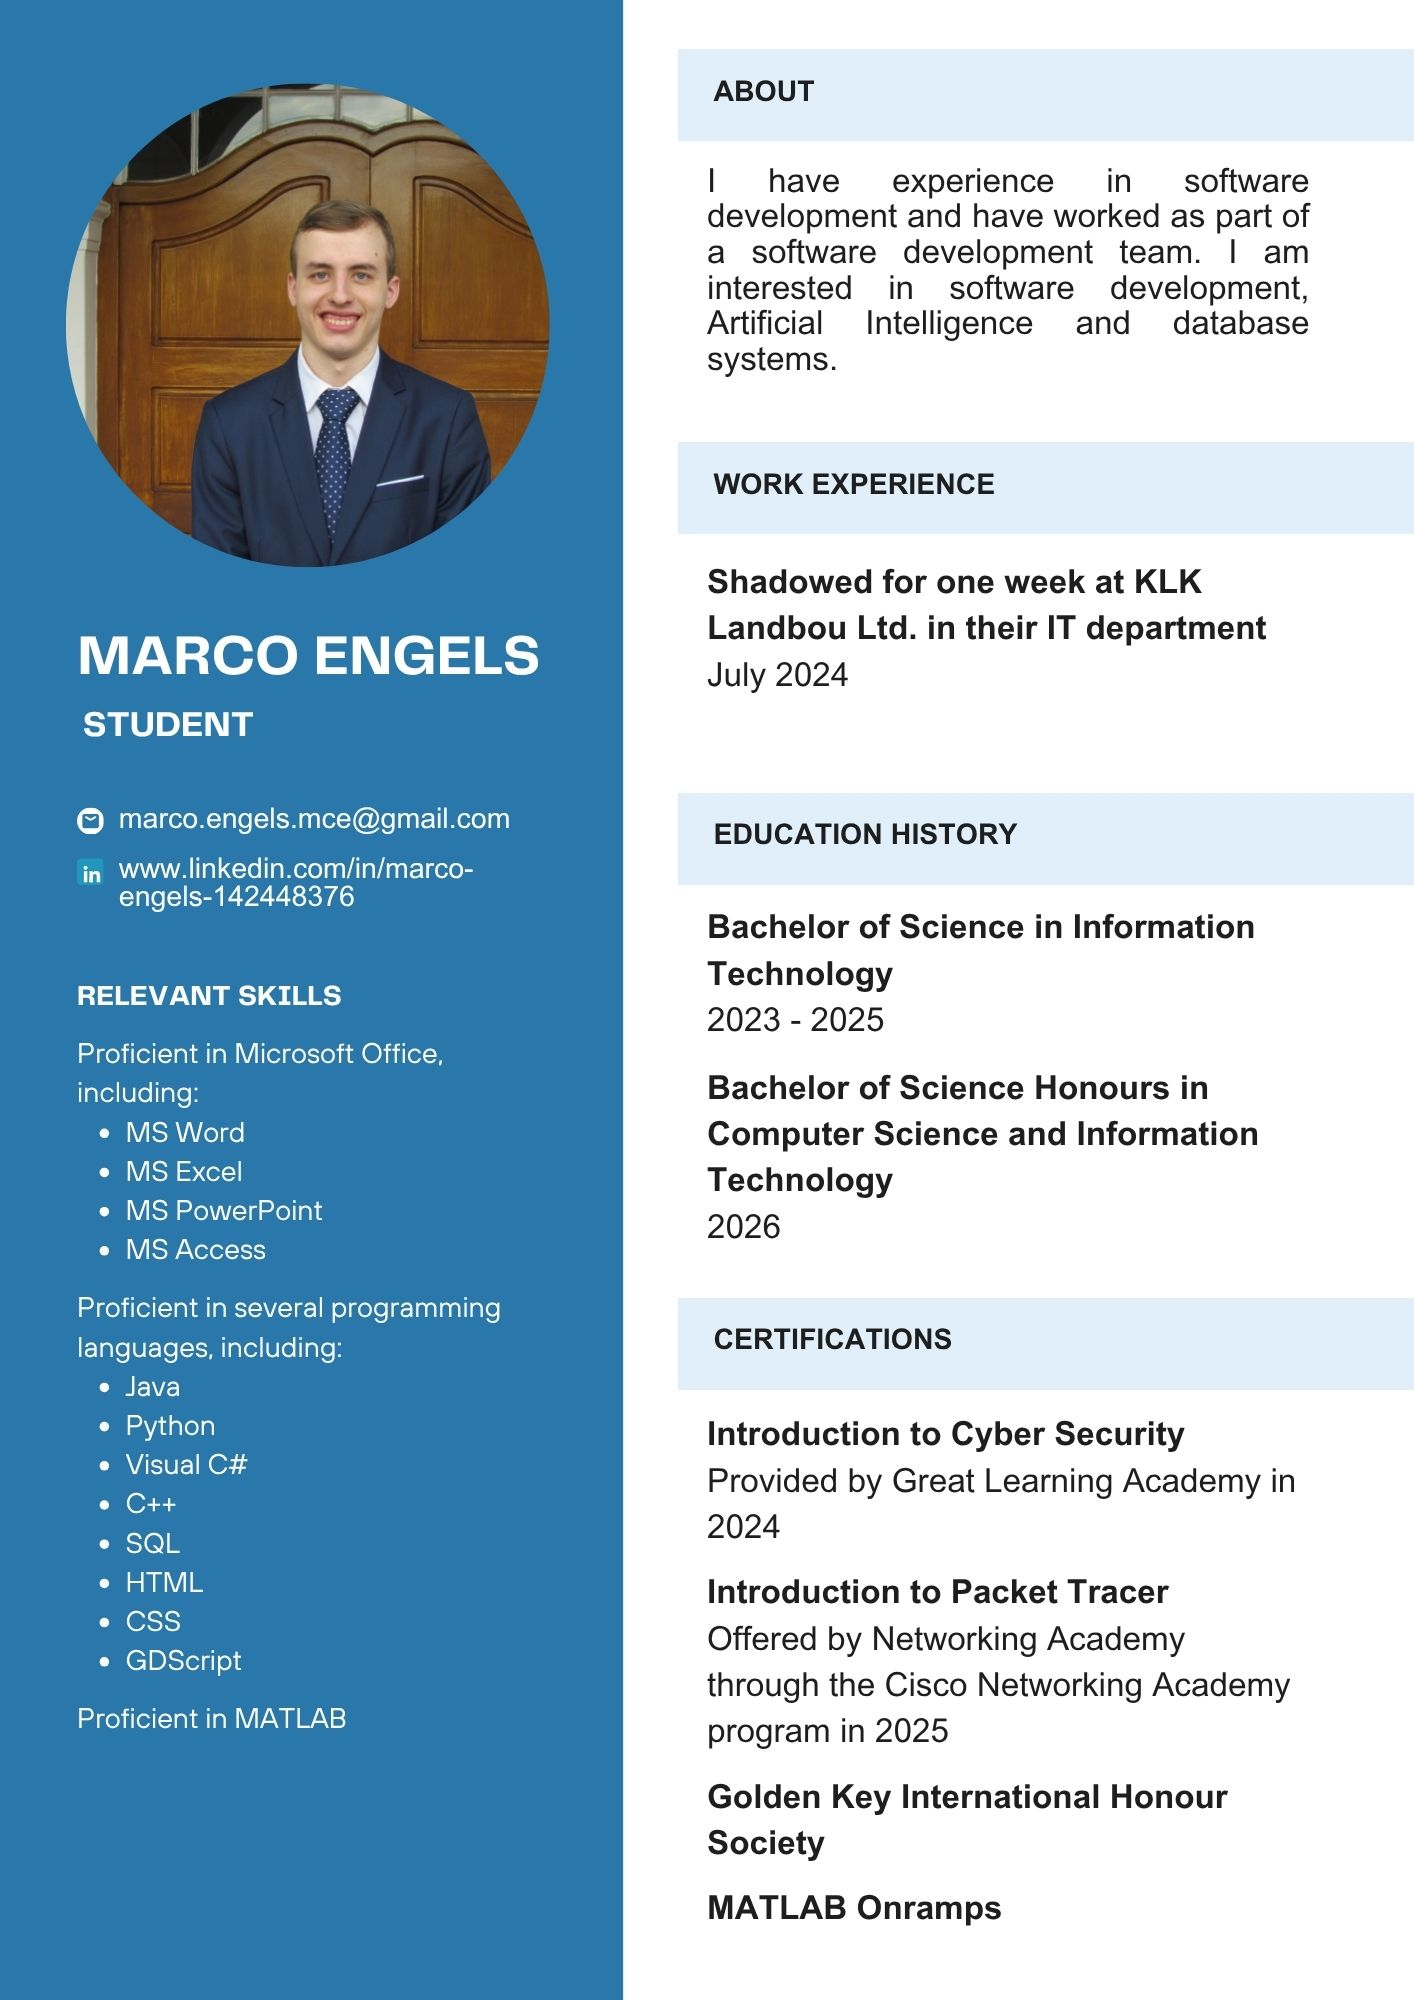
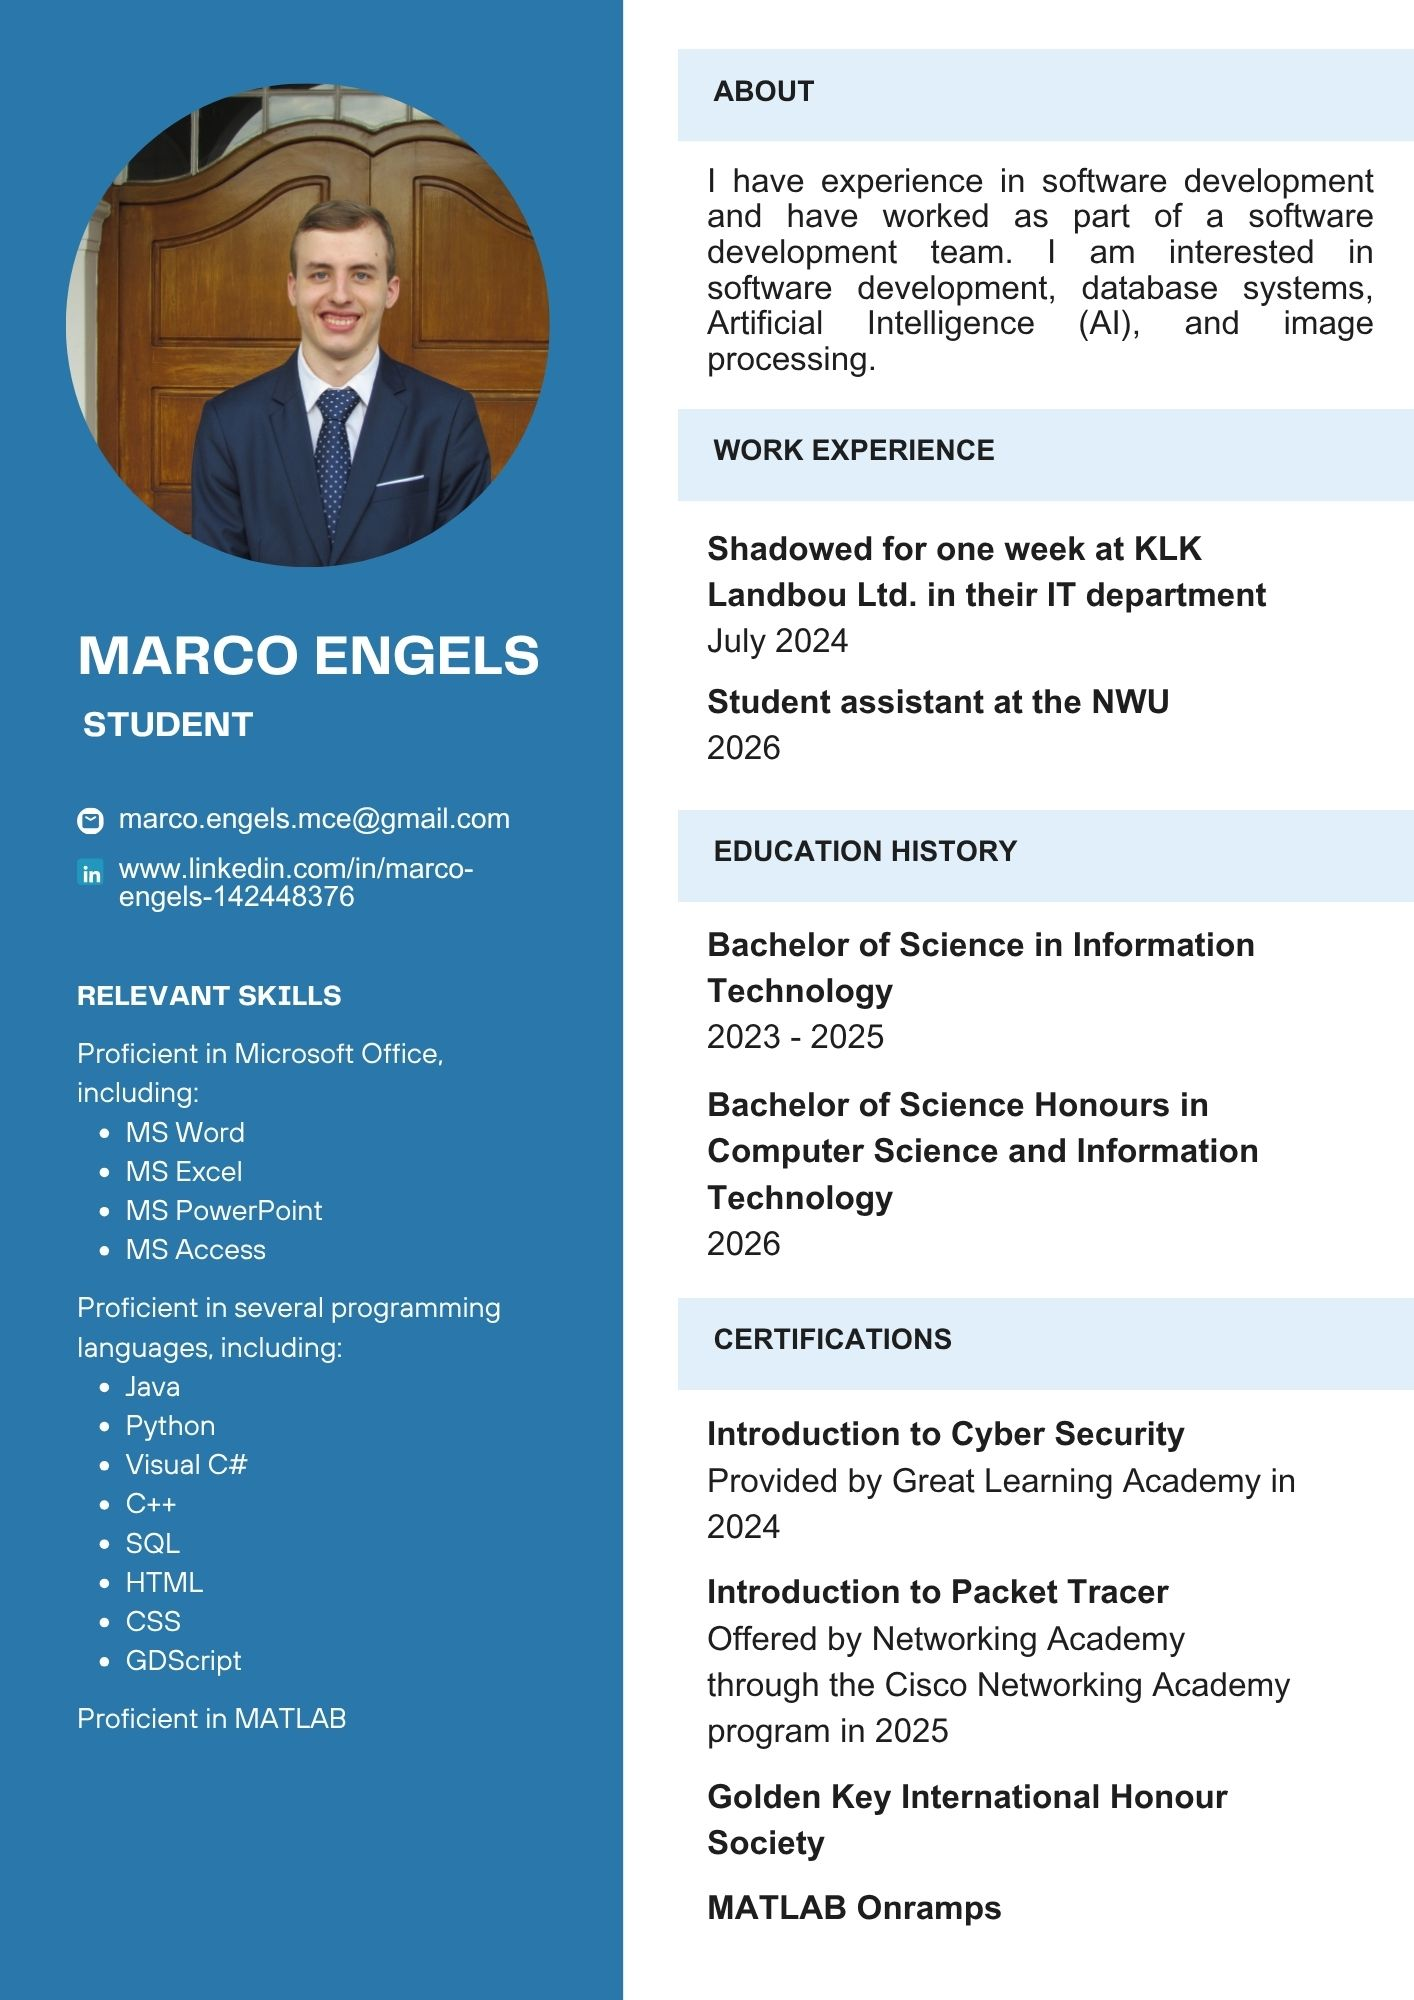
Updated CV

Changed region(s): [[0.4668, 0.062, 1.0, 0.62]]

diff --git a/index.html b/index.html
@@ -42,7 +42,7 @@
 			<main class="home_body">
 				<section>
 					<h3>About Me</h3>
-					<p>I am a student at the North-West University in Potchefstroom studying Bachelor of Science Honours in Computer Science and Information Technology. I have experience in coding, software development, and databases.</p>
+					<p>I am a student at the North-West University in Potchefstroom studying Bachelor of Science Honours in Computer Science and Information Technology. I am interested in software development, databases systems, Artificial Intelligence (AI), and image proceessing.</p>
 				</section>
 
 				<section>
